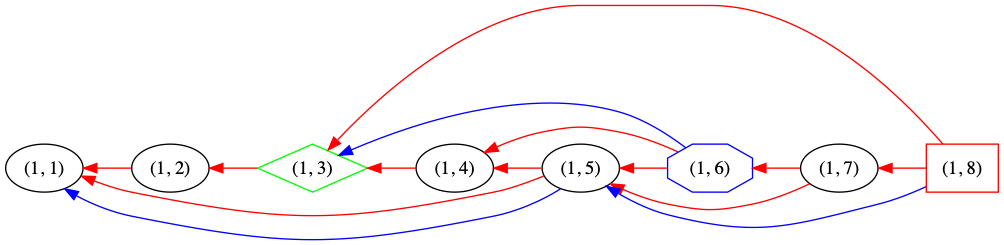
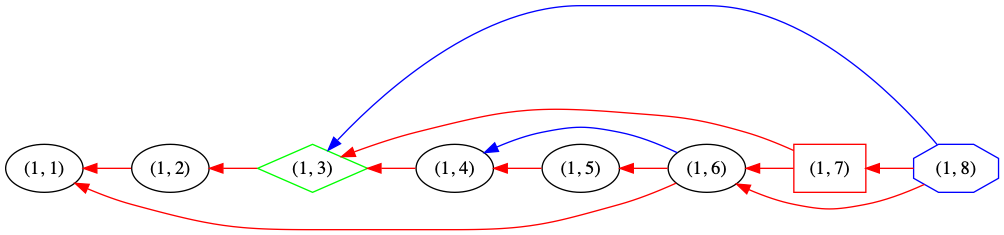
Add more layers and column labels.

diff --git a/replication/zigzag-commitments/zigzag-commitments.html b/replication/zigzag-commitments/zigzag-commitments.html
@@ -146,6 +146,9 @@ for the JavaScript code in this tag.
 <li><a href="#sec-1-2">1.2. Layer 1 (Odd)</a></li>
 <li><a href="#sec-1-3">1.3. Layer 2 (Even)</a></li>
 <li><a href="#sec-1-4">1.4. Layer 3 (Odd)</a></li>
+<li><a href="#sec-1-5">1.5. Layer 4 (Even)</a></li>
+<li><a href="#sec-1-6">1.6. Layer 5 (Odd)</a></li>
+<li><a href="#sec-1-7">1.7. Legend</a></li>
 </ul>
 </li>
 <li><a href="#sec-2">2. Details</a>
@@ -206,12 +209,48 @@ and are accurate for expander parents. However, this is not representative of th
 <div class="outline-text-3" id="text-1-4">
 
 <div class="figure">
-<p><img src="layer=3.png" alt="layer=3.png" />
+<p><img src="layer-3.png" alt="layer-3.png" />
+</p>
+</div>
+</div>
+</div>
+
+<div id="outline-container-sec-1-5" class="outline-3">
+<h3 id="sec-1-5"><span class="section-number-3">1.5</span> Layer 4 (Even)</h3>
+<div class="outline-text-3" id="text-1-5">
+
+<div class="figure">
+<p><img src="layer-4.png" alt="layer-4.png" />
+</p>
+</div>
+</div>
+</div>
+
+<div id="outline-container-sec-1-6" class="outline-3">
+<h3 id="sec-1-6"><span class="section-number-3">1.6</span> Layer 5 (Odd)</h3>
+<div class="outline-text-3" id="text-1-6">
+
+<div class="figure">
+<p><img src="layer-5.png" alt="layer-5.png" />
+</p>
+</div>
+</div>
+</div>
+
+
+
+<div id="outline-container-sec-1-7" class="outline-3">
+<h3 id="sec-1-7"><span class="section-number-3">1.7</span> Legend</h3>
+<div class="outline-text-3" id="text-1-7">
+
+<div class="figure">
+<p><img src="layer-legend.png" alt="layer-legend.png" />
 </p>
 </div>
 </div>
 </div>
 </div>
+
 
 <div id="outline-container-sec-2" class="outline-2">
 <h2 id="sec-2"><span class="section-number-2">2</span> Details</h2>
@@ -240,6 +279,17 @@ and are accurate for expander parents. However, this is not representative of th
 <col  class="left" />
 </colgroup>
 <tbody>
+<tr>
+<td class="left">&#xa0;</td>
+<td class="left">DRG Parent</td>
+<td class="left">&#xa0;</td>
+<td class="left">Expander Parent</td>
+<td class="left">&#xa0;</td>
+<td class="left">Challenged Node</td>
+<td class="left">&#xa0;</td>
+<td class="left">&#xa0;</td>
+</tr>
+
 <tr>
 <td class="left">(0, 1)</td>
 <td class="left">(0, 2)</td>
@@ -272,6 +322,28 @@ and are accurate for expander parents. However, this is not representative of th
 <td class="left">(2, 7)</td>
 <td class="left">(2, 8)</td>
 </tr>
+
+<tr>
+<td class="left">(3, 8)</td>
+<td class="left">(3, 7)</td>
+<td class="left">(3, 6)</td>
+<td class="left">(3, 5)</td>
+<td class="left">(3, 4)</td>
+<td class="left">(3, 3)</td>
+<td class="left">(3, 2)</td>
+<td class="left">(3, 1)</td>
+</tr>
+
+<tr>
+<td class="left">(4, 1)</td>
+<td class="left">(4, 2)</td>
+<td class="left">(4, 3)</td>
+<td class="left">(4, 4)</td>
+<td class="left">(4, 5)</td>
+<td class="left">(4, 6)</td>
+<td class="left">(4, 7)</td>
+<td class="left">(4, 8)</td>
+</tr>
 </tbody>
 </table>
 </div>
@@ -302,14 +374,14 @@ and are accurate for expander parents. However, this is not representative of th
 </colgroup>
 <tbody>
 <tr>
-<td class="left">(3, 8)</td>
-<td class="left">(3, 7)</td>
-<td class="left">(3, 6)</td>
-<td class="left">(3, 5)</td>
-<td class="left">(3, 4)</td>
-<td class="left">(3, 3)</td>
-<td class="left">(3, 2)</td>
-<td class="left">(3, 1)</td>
+<td class="left">(5, 8)</td>
+<td class="left">(5, 7)</td>
+<td class="left">(5, 6)</td>
+<td class="left">(5, 5)</td>
+<td class="left">(5, 4)</td>
+<td class="left">(5, 3)</td>
+<td class="left">(5, 2)</td>
+<td class="left">(5, 1)</td>
 </tr>
 </tbody>
 </table>
